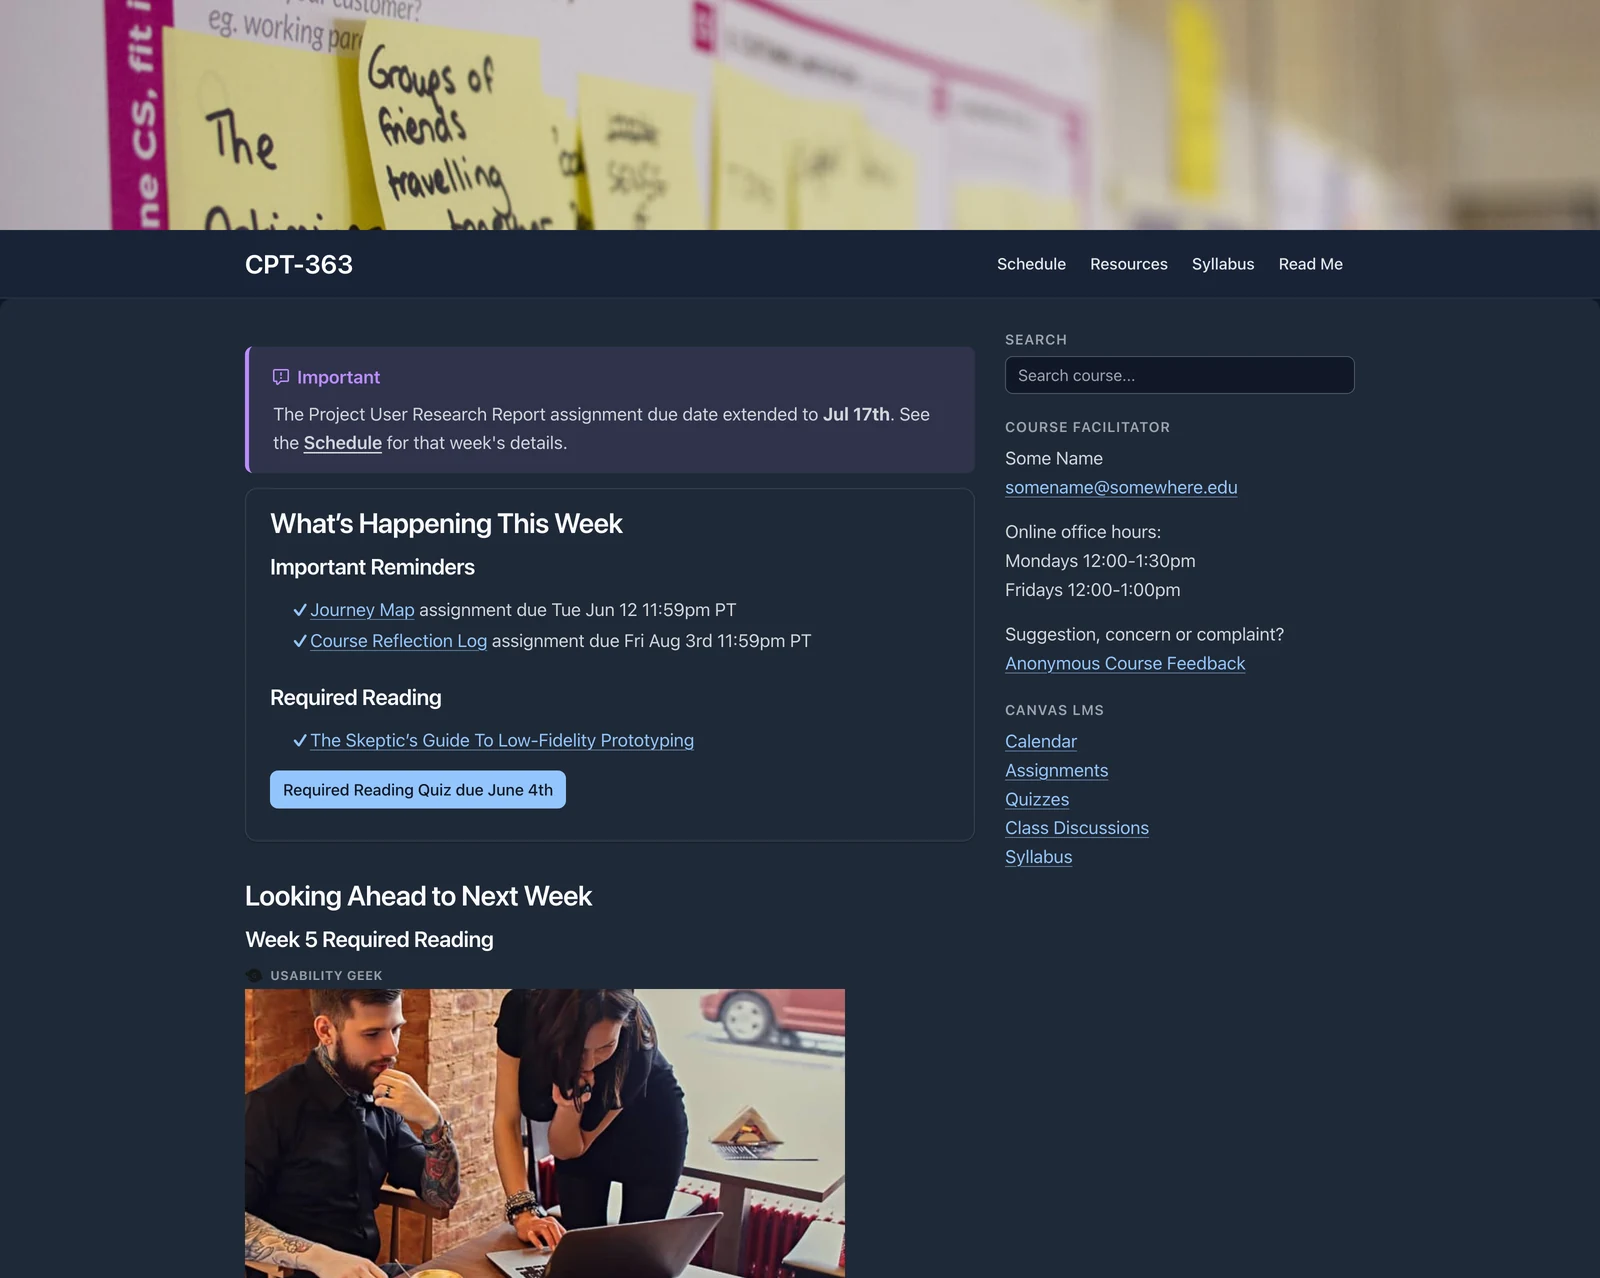
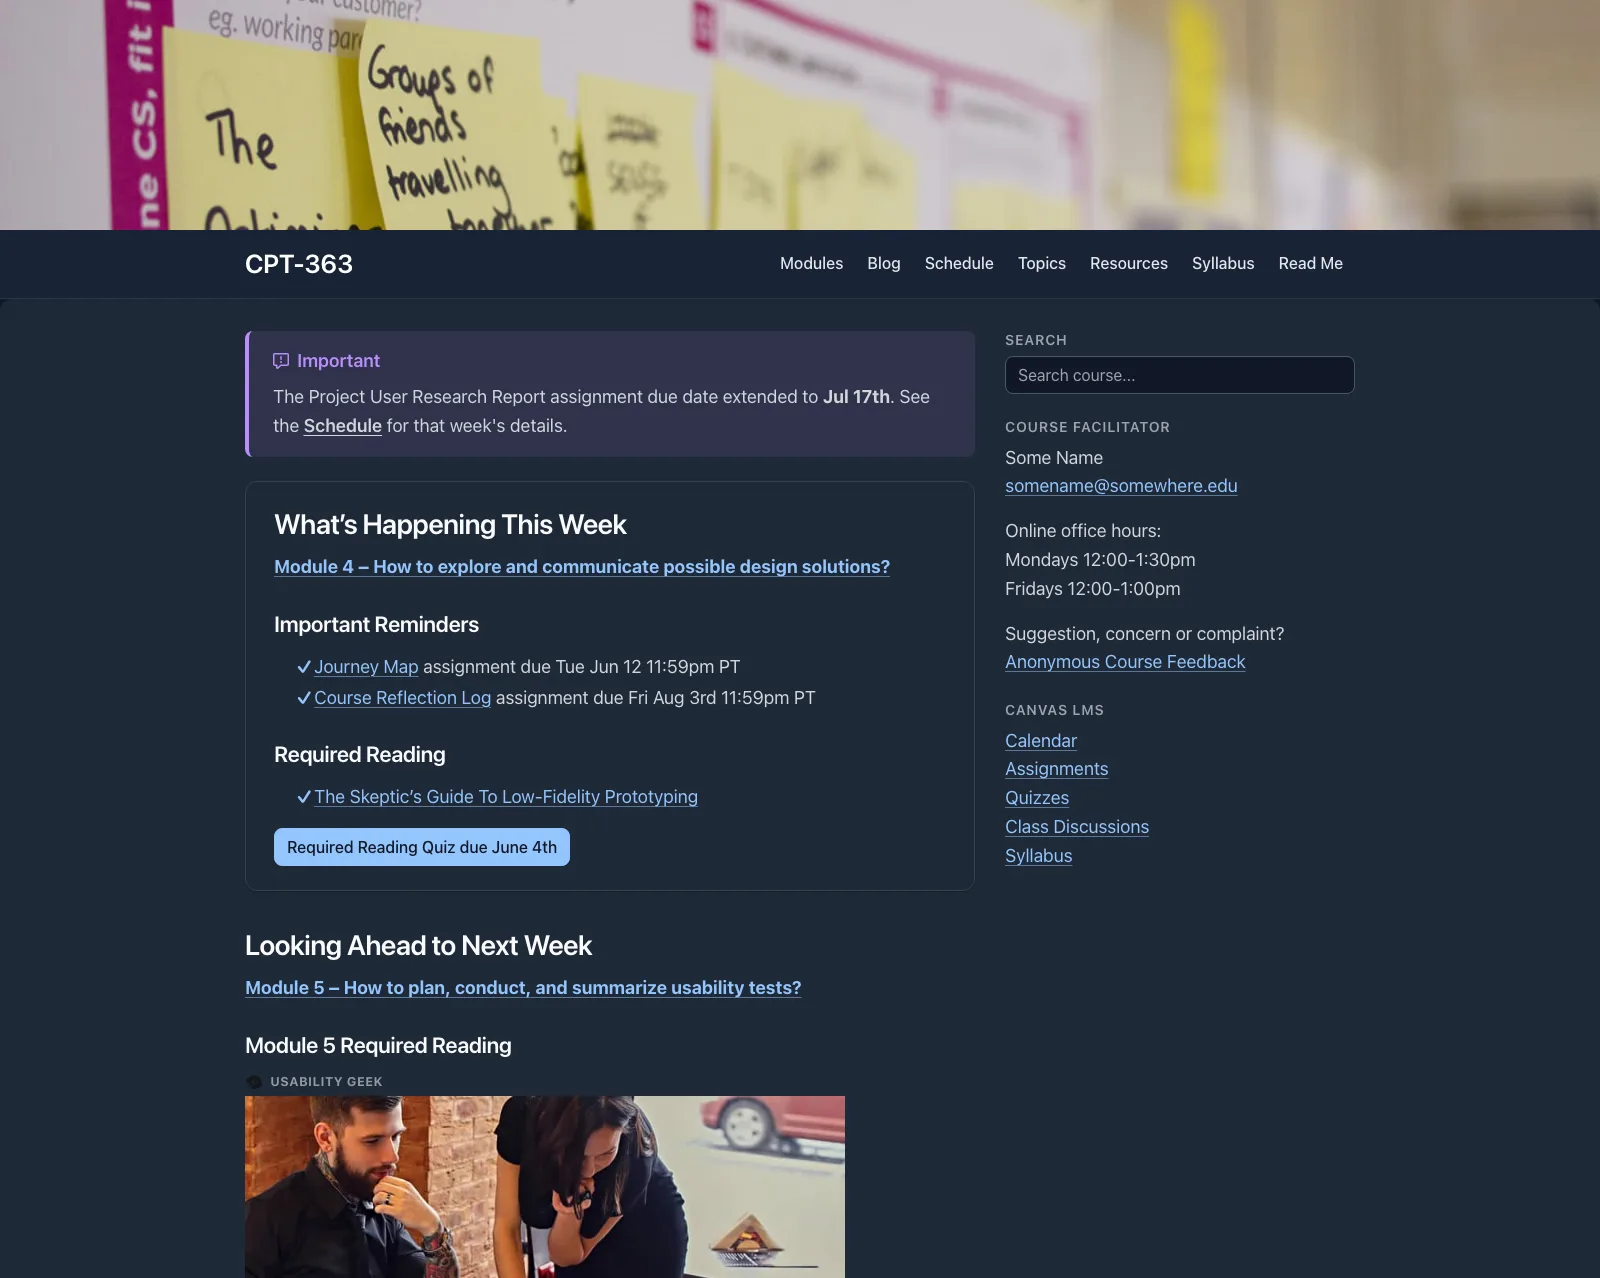
Update the README screenshots for modules and the course blog.

diff --git a/README.md b/README.md
@@ -12,7 +12,7 @@
 
 <p>A free, open-source alternative to <a href="https://github.com/hibbitts-design/grav-skeleton-helios-course-hub">Grav Helios Course Hub</a>, built on <a href="https://getgrav.org">Grav CMS</a> and the <a href="https://github.com/hibbitts-design/grav-theme-bootstrap4-open-matter">Bootstrap4 Open Matter</a> theme, with Markdown file-based content, a built-in Admin panel, and no database required. Helios Course Hub, built on the premium Helios theme, adds a more refined design, a table of contents on every page, and automatic single or multi-course setup.</p>
 
-<a href="https://raw.githubusercontent.com/hibbitts-design/grav-skeleton-course-hub/refs/heads/master/screenshots/screenshot.webp"><picture><source media="(prefers-color-scheme: dark)" srcset="https://raw.githubusercontent.com/hibbitts-design/grav-skeleton-course-hub/refs/heads/master/screenshots/screenshot-dark.webp"><img alt="Course homepage with weekly reminders, required reading, and a course sidebar with LMS links" src="https://raw.githubusercontent.com/hibbitts-design/grav-skeleton-course-hub/refs/heads/master/screenshots/screenshot.webp" width="49%"></picture></a> <a href="https://raw.githubusercontent.com/hibbitts-design/grav-skeleton-course-hub/refs/heads/master/screenshots/screenshot-2.webp"><picture><source media="(prefers-color-scheme: dark)" srcset="https://raw.githubusercontent.com/hibbitts-design/grav-skeleton-course-hub/refs/heads/master/screenshots/screenshot-2-dark.webp"><img alt="Course blog with a featured welcome post and other posts, and a sidebar with course links, Popular Tags, Archives and RSS" src="https://raw.githubusercontent.com/hibbitts-design/grav-skeleton-course-hub/refs/heads/master/screenshots/screenshot-2.webp" width="49%"></picture></a>
+<a href="https://raw.githubusercontent.com/hibbitts-design/grav-skeleton-course-hub/refs/heads/master/screenshots/screenshot.webp"><picture><source media="(prefers-color-scheme: dark)" srcset="https://raw.githubusercontent.com/hibbitts-design/grav-skeleton-course-hub/refs/heads/master/screenshots/screenshot-dark.webp"><img alt="Course homepage with this week's module, reminders and required reading, and a course sidebar with LMS links" src="https://raw.githubusercontent.com/hibbitts-design/grav-skeleton-course-hub/refs/heads/master/screenshots/screenshot.webp" width="49%"></picture></a> <a href="https://raw.githubusercontent.com/hibbitts-design/grav-skeleton-course-hub/refs/heads/master/screenshots/screenshot-2.webp"><picture><source media="(prefers-color-scheme: dark)" srcset="https://raw.githubusercontent.com/hibbitts-design/grav-skeleton-course-hub/refs/heads/master/screenshots/screenshot-2-dark.webp"><img alt="Course blog with a featured welcome post and other posts, and a sidebar with course links, Popular Tags, Archives and RSS" src="https://raw.githubusercontent.com/hibbitts-design/grav-skeleton-course-hub/refs/heads/master/screenshots/screenshot-2.webp" width="49%"></picture></a>
 
 <a href="https://raw.githubusercontent.com/hibbitts-design/grav-skeleton-course-hub/refs/heads/master/screenshots/screenshot-3.webp"><picture><source media="(prefers-color-scheme: dark)" srcset="https://raw.githubusercontent.com/hibbitts-design/grav-skeleton-course-hub/refs/heads/master/screenshots/screenshot-3-dark.webp"><img alt="Modules page with a card for each module, and the course sidebar on the right" src="https://raw.githubusercontent.com/hibbitts-design/grav-skeleton-course-hub/refs/heads/master/screenshots/screenshot-3.webp" width="49%"></picture></a>
 
